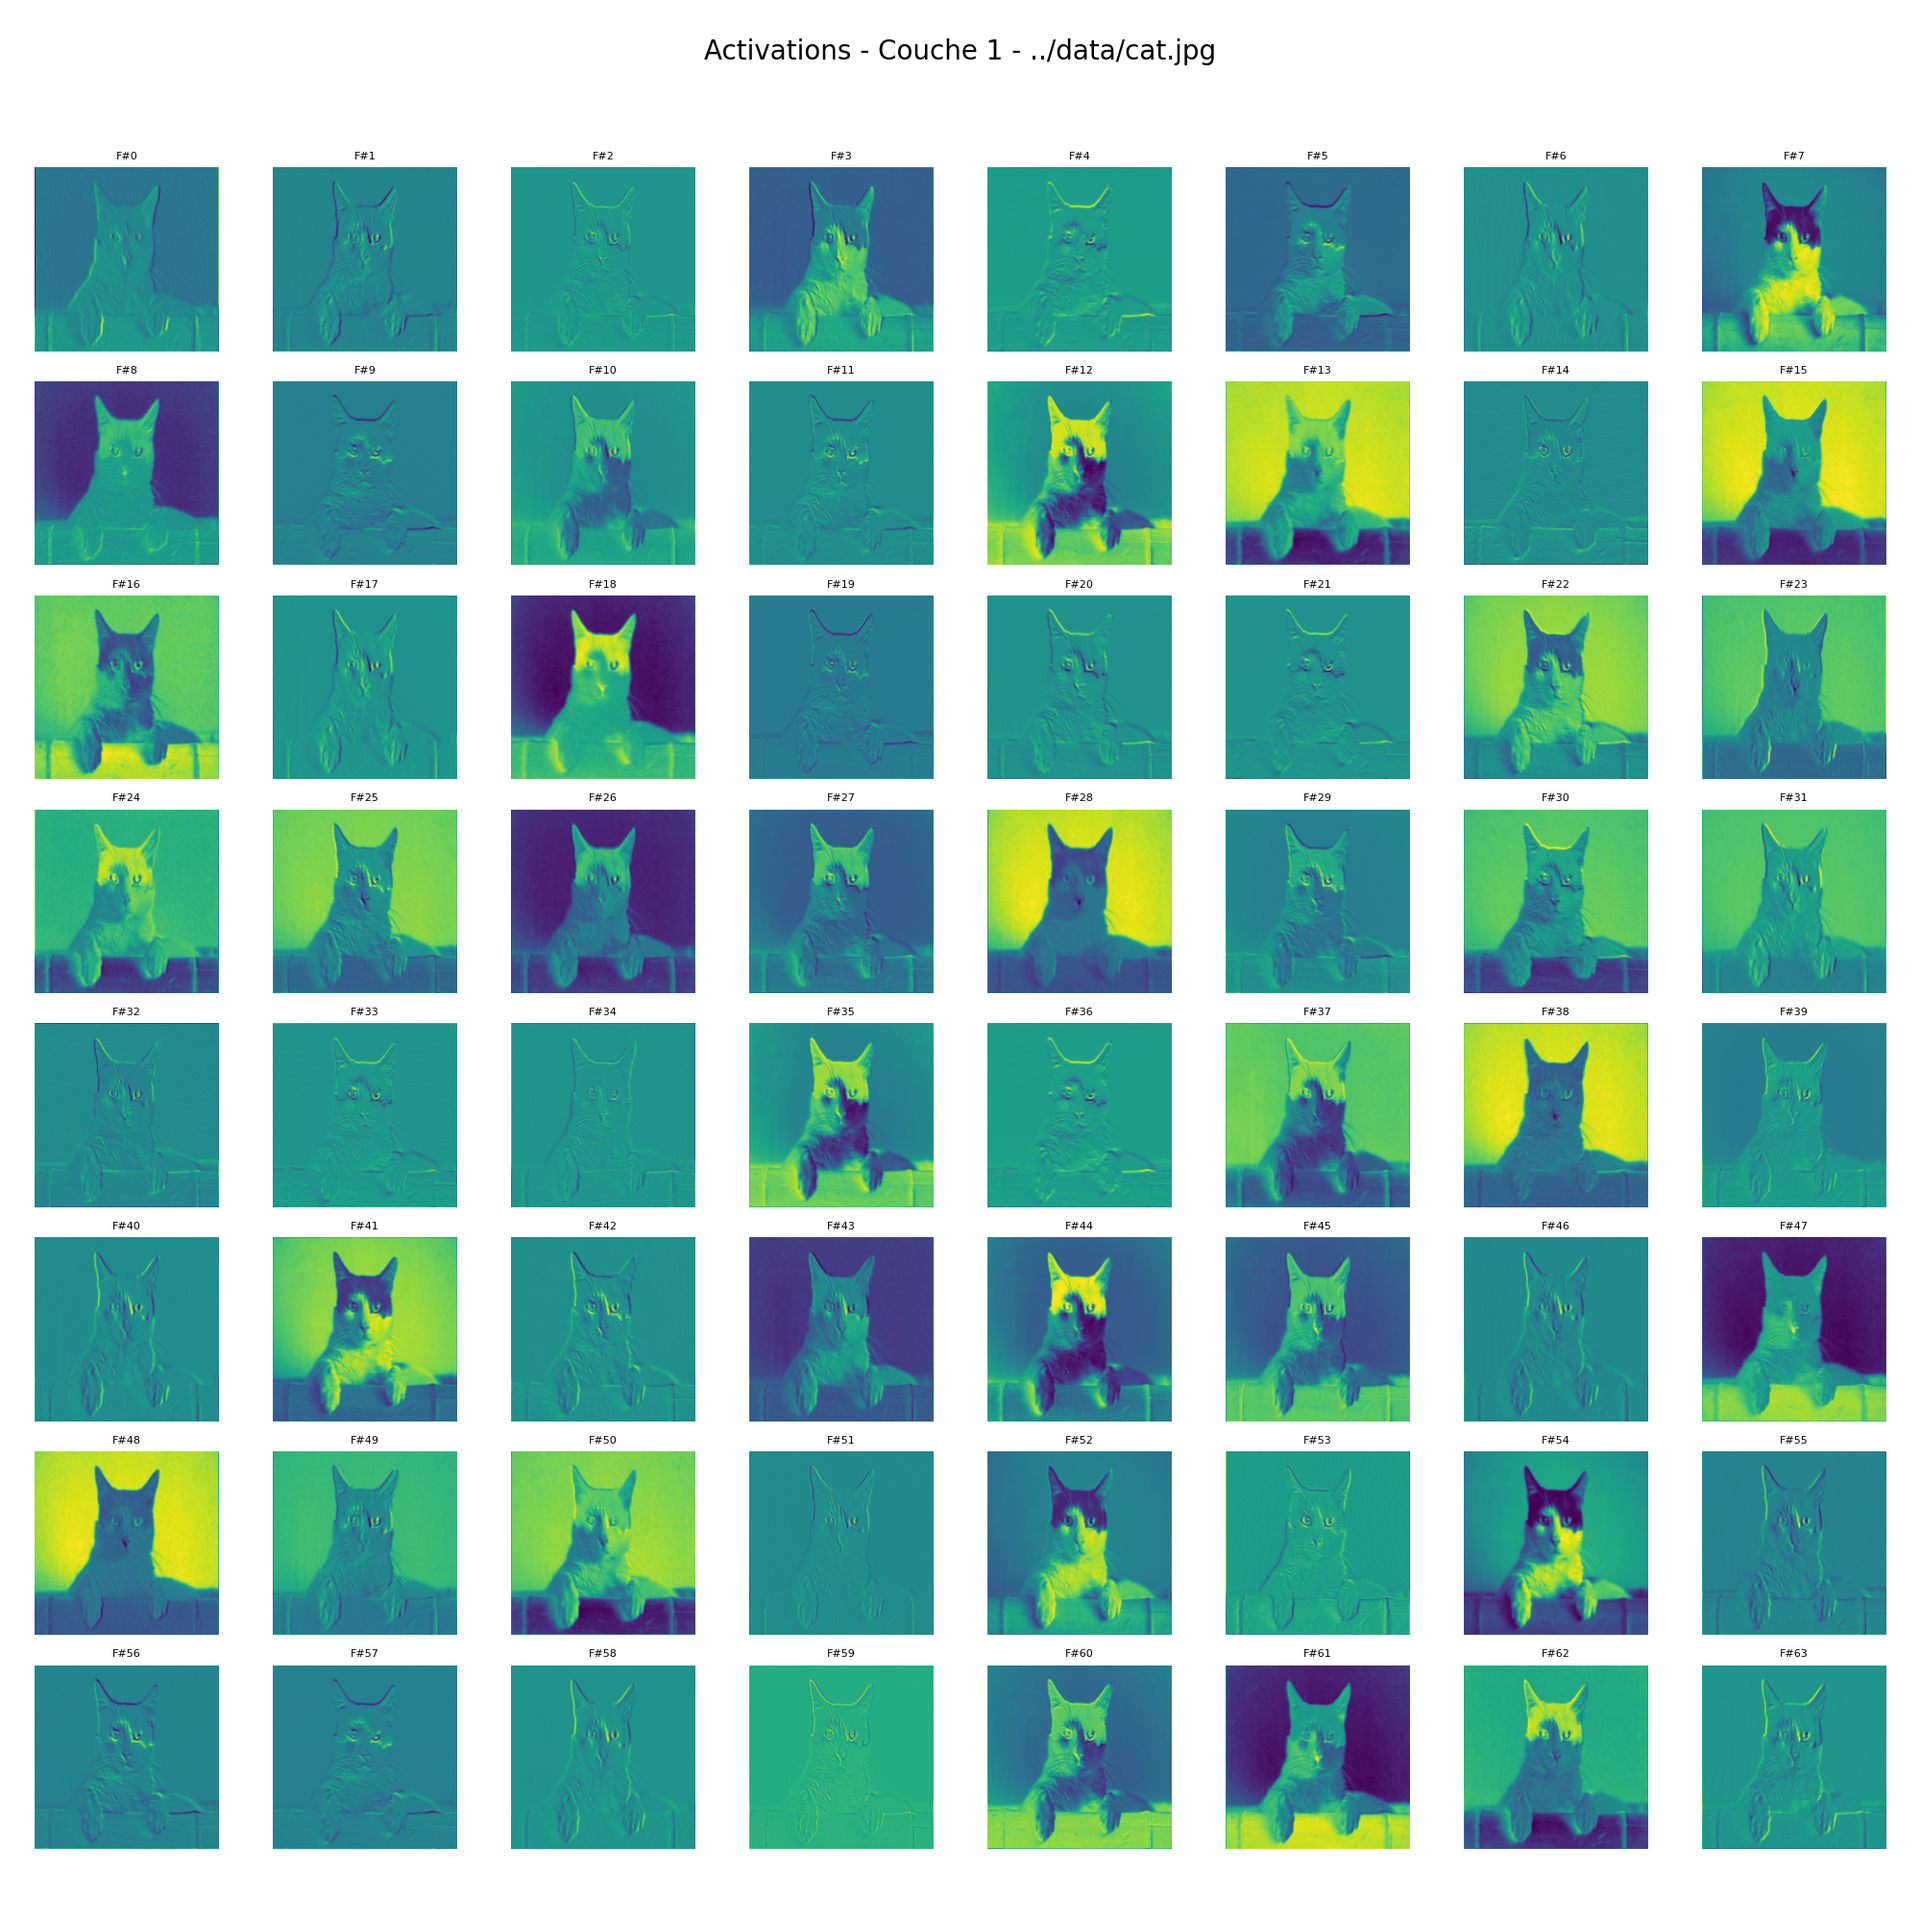
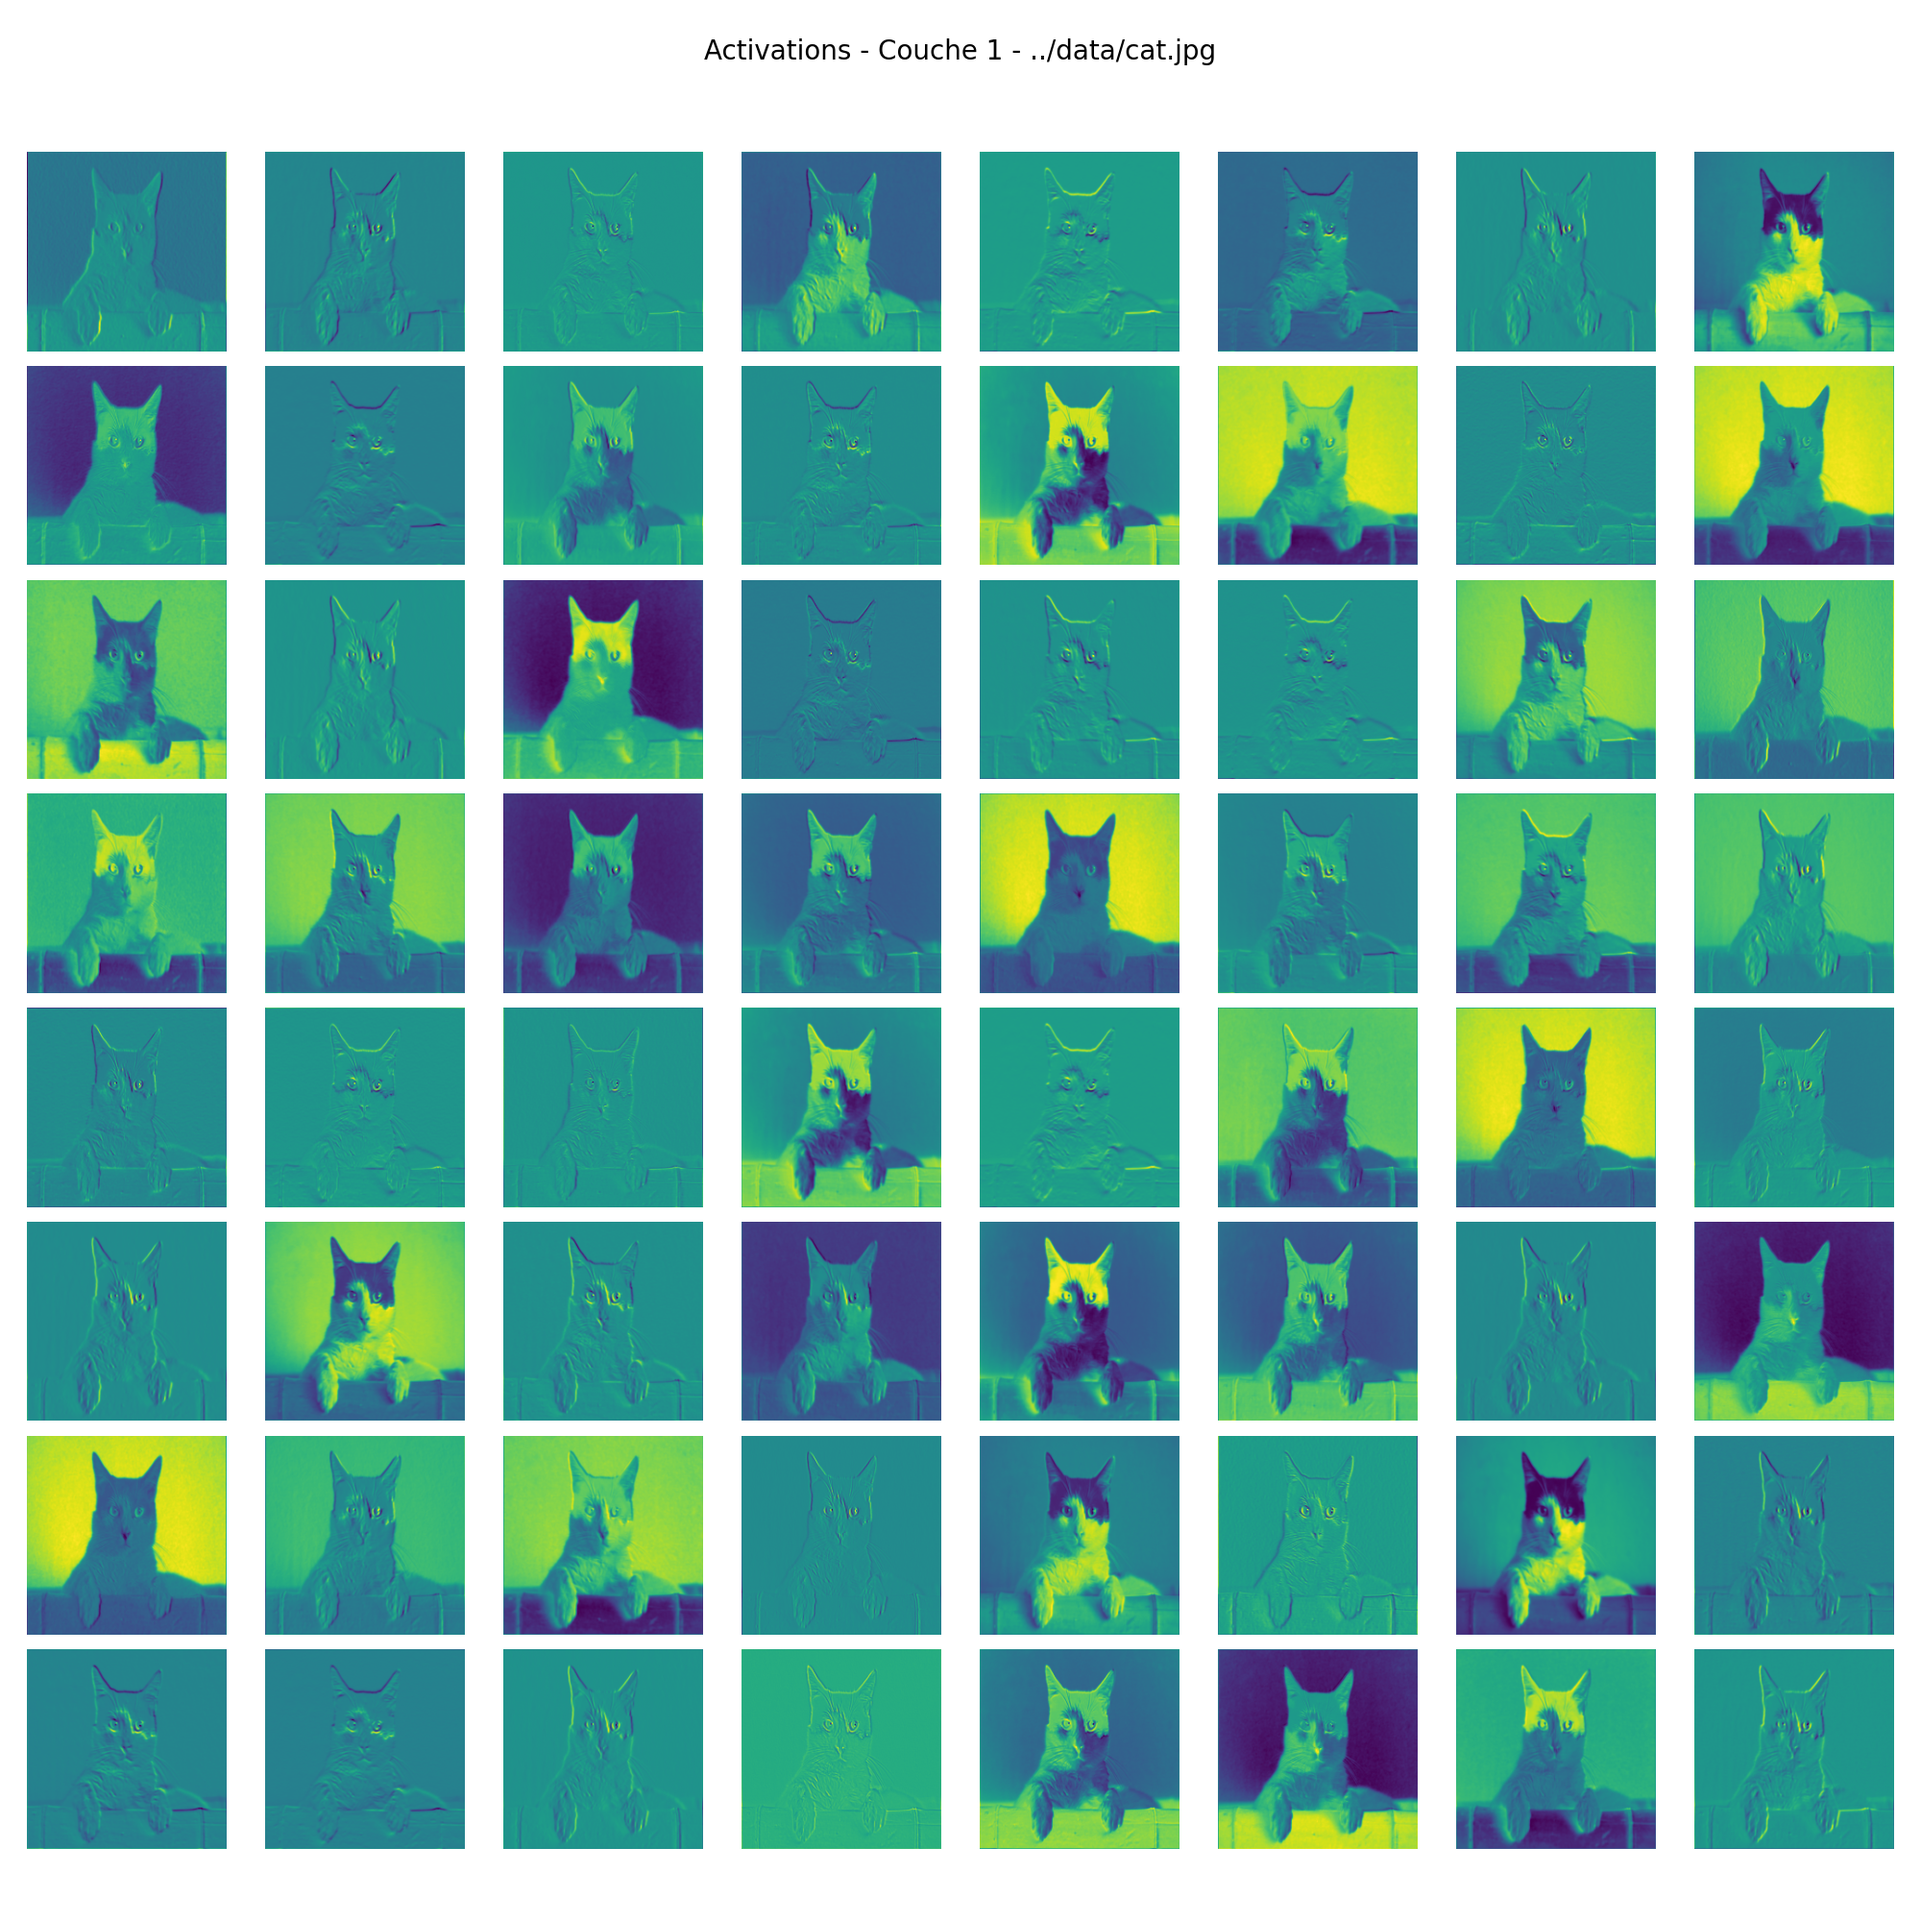
Refactor image processing functions in section1.py for improved clarity and reuse

Changed region(s): [[0.0, 0.062, 0.992, 0.961]]

diff --git a/src/section1.py b/src/section1.py
@@ -1,24 +1,44 @@
 from imports import *
 
-def s1(nameim):
-    # 1. Garder l'image originale pour l'affichage final
+
+def prepare_input(nameim):
+    # Image originale pour l'affichage (PIL)
     img_pil = Image.open(nameim).convert('RGB')
+
+    # Prétraitement pour le calcul
+    img_resized = img_pil.resize((224, 224), Image.BILINEAR)
+    img_np = np.array(img_resized, dtype=np.float32) / 255
+    img_np = img_np.transpose((2, 0, 1))
+
+    # Normalisation ImageNet
+    mu = torch.Tensor([0.485, 0.456, 0.406]).view(3, 1, 1)
+    sigma = torch.Tensor([0.229, 0.224, 0.225]).view(3, 1, 1)
+
+    img_tensor = (torch.Tensor(img_np) - mu) / sigma
+    img_tensor = img_tensor.unsqueeze(0)
+
+    return img_pil, img_tensor
+
+
+def save_and_show(plt_obj, nameim, suffix):
+    output_dir = '../plot'
+    os.makedirs(output_dir, exist_ok=True)
+
+    base_name = os.path.basename(nameim).split('.')[0]
+    save_path = os.path.join(output_dir, f'{suffix}_{base_name}.png')
+
+    plt_obj.savefig(save_path)
+    print(f"Graphique sauvegardé : {save_path}")
+    plt_obj.show()
+
+def s1(nameim):
+    img_pil, x = prepare_input(nameim)
 
     # Chargement des classes
     imagenet_classes = pickle.load(open('../data/imagenet_classes.pkl', 'rb'))
 
-    # 2. Préparation pour le réseau (Calcul)
-    img_tensor = img_pil.resize((224, 224), Image.BILINEAR)
-    img_tensor = np.array(img_tensor, dtype=np.float32) / 255
-    img_tensor = img_tensor.transpose((2, 0, 1))
 
-    mu = torch.Tensor([0.485, 0.456, 0.406]).view(3, 1, 1)
-    sigma = torch.Tensor([0.229, 0.224, 0.225]).view(3, 1, 1)
-
-    x = (torch.Tensor(img_tensor) - mu) / sigma
-    x = x.unsqueeze(0)
-
-    # 3. Prédiction
+    # Prédiction
     vgg16 = torchvision.models.vgg16(weights=torchvision.models.VGG16_Weights.IMAGENET1K_V1)
     vgg16.eval()
 
@@ -29,70 +49,36 @@ def s1(nameim):
     class_name = imagenet_classes[pred]
     print('Predicted class: %d - %s' % (pred, class_name))
 
-    # 4. Sauvegarde
-    output_dir = '../plot'
-    if not os.path.exists(output_dir):
-        os.makedirs(output_dir)
-
-    # 5. Affichage et Sauvegarde
+    # Affichage et Sauvegarde
     plt.figure(figsize=(8, 6))
     plt.imshow(img_pil)
     plt.title(f"Prediction: {class_name} (Class {pred})")
     plt.axis('off')
 
-    base_name = os.path.basename(nameim).split('.')[0]
-    save_path = os.path.join(output_dir, f'prediction_{base_name}.png')
-
-    plt.savefig(save_path)
-    print(f"Plot de prédiction sauvegardé sous : {save_path}")
-    plt.show()
+    save_and_show(plt, nameim, "prediction")
 
 
 def s1_4(nameim):
-    # 1. Chargement et Prétraitement (identique à s1 pour la cohérence)
-    img = Image.open(nameim).convert('RGB')
-    img_resized = img.resize((224, 224), Image.BILINEAR)
-    img_np = np.array(img_resized, dtype=np.float32) / 255
-    img_np = img_np.transpose((2, 0, 1))
+    _, img_tensor = prepare_input(nameim)
 
-    mu = torch.Tensor([0.485, 0.456, 0.406]).view(3, 1, 1)
-    sigma = torch.Tensor([0.229, 0.224, 0.225]).view(3, 1, 1)
-    img_tensor = (torch.Tensor(img_np) - mu) / sigma
-    img_tensor = img_tensor.unsqueeze(0)
-
-    # 2. Chargement du modèle VGG16
+    # Chargement du modèle VGG16
     vgg16 = models.vgg16(weights=models.VGG16_Weights.IMAGENET1K_V1)
     vgg16.eval()
 
-    # 3. Extraction de la première couche convolutionnelle
-    # Dans VGG16, 'features' est un séquentiel. L'index 0 est la première Conv2d.
+    # Extraction de la première couche convolutionnelle
     first_conv_layer = vgg16.features[0]
 
     with torch.no_grad():
         activations = first_conv_layer(img_tensor).squeeze(0).cpu().numpy()
 
-        output_dir = '../plot'
-        if not os.path.exists(output_dir):
-            os.makedirs(output_dir)
-
-        num_filters = activations.shape[0]
         plt.figure(figsize=(20, 20))
-
-        for i in range(num_filters):
+        for i in range(activations.shape[0]):
             plt.subplot(8, 8, i + 1)
             plt.imshow(activations[i], cmap='viridis')
-            plt.title(f'F#{i}', fontsize=8)
             plt.axis('off')
 
         plt.suptitle(f"Activations - Couche 1 - {nameim}", fontsize=20)
         plt.tight_layout(rect=[0, 0.03, 1, 0.95])
 
-        # Définition du nom de fichier (basé sur le nom de l'image d'entrée)
-        base_name = os.path.basename(nameim).split('.')[0]
-        save_path = os.path.join(output_dir, f'activations_{base_name}.png')
-
-        # Sauvegarde du plot
-        plt.savefig(save_path)
-        print(f"Image sauvegardée sous : {save_path}")
-
-        plt.show()
+        # Appel de la sauvegarde factorisée
+        save_and_show(plt, nameim, "activations")
